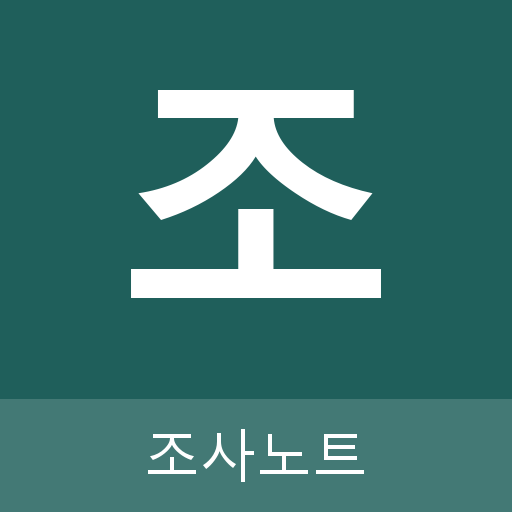
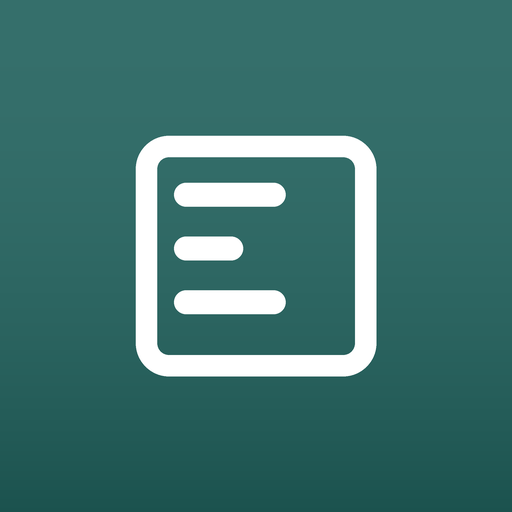
기일노트 9.10 — 전부 고딕, 어절 줄바꿈, 아이콘 교체
글꼴: 명조·외부 글꼴을 버리고 기기 고딕(Apple SD Gothic Neo→맑은 고딕→돋움).
  받아 오지 않으니 비행기 모드에서도 같은 모양이고 첫 화면이 빨라진다.
조판: word-break:keep-all 로 「제출하겠습니/다.」 같은 낱말 중간 잘림을 없애고,
  본문 줄길이를 42~44em 으로 묶고 줄간격을 1.68~1.78 로. 숫자는 tabular-nums.
머리줄: 사건이름·사건번호·기일 배지가 겹치던 것을 고치고 좁은 화면은 두 줄 고정.
아이콘: 「기」자 + 이름 띠를 버리고 글자 없는 선 아이콘 셋(달력·조서·말풍선)으로.
  홈 화면에는 앱 이름이 이미 아래에 뜨므로 아이콘이 이름을 또 말할 필요가 없다.

diff --git a/src/gijil-note.html b/src/gijil-note.html
@@ -1,7 +1,5 @@
 <title>기일노트</title>
-<link rel="preconnect" href="https://fonts.googleapis.com">
-<link rel="preconnect" href="https://fonts.gstatic.com" crossorigin>
-<link rel="stylesheet" href="https://fonts.googleapis.com/css2?family=Nanum+Myeongjo:wght@400;700;800&family=IBM+Plex+Sans+KR:wght@300;400;500;600;700&family=IBM+Plex+Mono:wght@400;500;600&display=swap">
+<!-- 글꼴은 기기에 있는 고딕을 쓴다 — 받아 오지 않으니 비행기 모드에서도 같은 모양이다 -->
 <script src="https://cdnjs.cloudflare.com/ajax/libs/jszip/3.10.1/jszip.min.js"></script>
 
 <style>
@@ -17,9 +15,10 @@
   --shadow:0 1px 2px rgba(22,32,43,.06), 0 6px 18px rgba(22,32,43,.06);
   --shadow-lg:0 8px 40px rgba(22,32,43,.18);
   --r:10px;
-  --serif:"Nanum Myeongjo",'Apple SD Gothic Neo',serif;
-  --sans:"IBM Plex Sans KR",'Apple SD Gothic Neo','Malgun Gothic',system-ui,sans-serif;
-  --mono:"IBM Plex Mono",ui-monospace,SFMono-Regular,Menlo,monospace;
+  /* 전부 고딕(돋움)으로 — 법정에서 멀리서도 획이 뭉개지지 않는다 */
+  --serif:'Apple SD Gothic Neo','Pretendard','맑은 고딕','Malgun Gothic','돋움',Dotum,system-ui,sans-serif;
+  --sans:'Apple SD Gothic Neo','Pretendard','맑은 고딕','Malgun Gothic','돋움',Dotum,system-ui,sans-serif;
+  --mono:ui-monospace,SFMono-Regular,Menlo,'D2Coding','맑은 고딕',monospace;
 }
 @media (prefers-color-scheme:dark){
   :root:not([data-theme="light"]){
@@ -53,8 +52,15 @@
 html,body{height:100%}
 body{
   margin:0; background:var(--paper); color:var(--ink);
-  font-family:var(--sans); font-size:15px; line-height:1.55;
+  font-family:var(--sans); font-size:15px; line-height:1.68;
   -webkit-text-size-adjust:100%; overscroll-behavior:none;
+  /* 한글은 어절 단위로 끊는다 — 「제출하겠습니/다.」처럼 낱말 가운데서 잘리지 않게 */
+  word-break:keep-all; overflow-wrap:anywhere;
+  letter-spacing:-.003em;
+}
+/* 숫자·날짜는 자리를 고정해 세로로 떨어지게 */
+[class*="ts"],.caseno,.pg input,.due,.frow .fd,.frow .fp,.tocrow .tp,.docitem .m,.hit .pg{
+  font-variant-numeric:tabular-nums;
 }
 button,input,textarea,select{font:inherit;color:inherit}
 button{cursor:pointer;background:none;border:none;padding:0}
@@ -72,14 +78,23 @@ button{cursor:pointer;background:none;border:none;padding:0}
 .brand{display:flex;align-items:baseline;gap:9px}
 .brand b{font-family:var(--serif);font-weight:800;font-size:18px;letter-spacing:-.01em}
 .brand span{font-size:10.5px;color:var(--mute-2);letter-spacing:.14em;text-transform:uppercase}
-.caseline{display:flex;align-items:baseline;gap:10px;min-width:0;flex:1}
-.caseline .nm{font-family:var(--serif);font-weight:700;font-size:17px;
-  white-space:nowrap;overflow:hidden;text-overflow:ellipsis}
-.caseno{font-family:var(--mono);font-size:12.5px;color:var(--mute);white-space:nowrap}
-.top .right{display:flex;align-items:center;gap:8px;margin-left:auto}
+/* 사건 이름·번호·기일 배지가 서로 겹치지 않게 — 좁으면 줄을 바꾼다 */
+.caseline{display:flex;align-items:center;gap:6px 10px;min-width:0;flex:1 1 260px;flex-wrap:wrap}
+.caseline .nm{font-family:var(--serif);font-weight:700;font-size:17px;letter-spacing:-.01em;
+  min-width:0;max-width:100%;white-space:nowrap;overflow:hidden;text-overflow:ellipsis}
+.caseno{font-family:var(--mono);font-size:12.5px;color:var(--mute);white-space:nowrap;flex:0 0 auto}
+.top .right{display:flex;align-items:center;gap:8px;margin-left:auto;flex-wrap:wrap;justify-content:flex-end}
+.top .right select{max-width:min(42vw,220px)}
+/* 좁은 화면(아이패드 세로)에서는 두 줄로 — 1줄 앱이름+단추, 2줄 사건이름+기일 */
+@media (max-width:900px){
+  .top{gap:8px 10px;padding:7px 12px}
+  .brand span{display:none}
+  .caseline{flex:1 1 100%;order:2}
+  .top .right{order:1;margin-left:auto}
+}
 
 .badge{display:inline-flex;align-items:center;gap:5px;padding:2px 9px;border-radius:100px;
-  font-size:11.5px;font-weight:600;border:1px solid transparent;white-space:nowrap}
+  font-size:11.5px;font-weight:600;border:1px solid transparent;white-space:nowrap;flex:0 0 auto}
 .badge.hearing{background:var(--court-soft);color:var(--court);border-color:color-mix(in srgb,var(--court) 22%,transparent)}
 .badge.demo{background:var(--warn-soft);color:var(--warn);border-color:color-mix(in srgb,var(--warn) 25%,transparent)}
 
@@ -139,7 +154,7 @@ button{cursor:pointer;background:none;border:none;padding:0}
 .tocrow:hover{background:var(--surface-2)}
 .tocrow.here{background:var(--pen-soft)}
 .tocrow .tp{font-family:var(--mono);font-size:11px;color:var(--mute-2);text-align:right}
-.tocrow .tt{font-size:13px;line-height:1.35;word-break:break-word}
+.tocrow .tt{font-size:13px;line-height:1.45;word-break:keep-all;overflow-wrap:anywhere}
 .tocrow.head .tt{font-weight:600}
 .tocrow.kid{padding-left:14px}
 .tocrow.kid .tt{font-size:12.5px;color:var(--ink-2)}
@@ -160,7 +175,7 @@ button{cursor:pointer;background:none;border:none;padding:0}
 .frow .fd{font-family:var(--mono);font-size:11px;color:var(--mute-2);white-space:nowrap;min-width:42px}
 .frow .fk{font-family:var(--mono);font-size:12px;font-weight:700;min-width:44px;white-space:nowrap}
 .frow.gap .fk{color:var(--seal)} .frow.eul .fk{color:var(--pen)}
-.frow .ft{font-size:13px;line-height:1.35;word-break:break-word}
+.frow .ft{font-size:13.5px;line-height:1.5;word-break:keep-all;overflow-wrap:anywhere}
 .frow.brief .ft{font-weight:600}
 .frow .ft small{display:block;font-family:var(--mono);font-size:10.5px;font-weight:400;color:var(--mute-2);margin-top:1px}
 .frow .fp{font-family:var(--mono);font-size:11px;color:var(--mute-2);white-space:nowrap}
@@ -197,11 +212,13 @@ button{cursor:pointer;background:none;border:none;padding:0}
 .pg .of{font-family:var(--mono);font-size:12px;color:var(--mute)}
 .zl{font-family:var(--mono);font-size:11px;color:var(--mute);min-width:36px;text-align:center}
 /* 요약 */
-.sum{background:var(--surface);border:1px solid var(--line);border-radius:var(--r);padding:18px 22px;line-height:1.7;font-size:14.5px}
-.sum h1{font-family:var(--serif);font-size:20px;margin:0 0 6px;line-height:1.35}
-.sum h2{font-family:var(--serif);font-size:16px;margin:22px 0 8px;padding-bottom:5px;border-bottom:1px solid var(--line-2)}
-.sum h3{font-size:14px;margin:14px 0 4px;color:var(--ink-2)}
-.sum p{margin:6px 0}
+.sum{background:var(--surface);border:1px solid var(--line);border-radius:var(--r);padding:20px 24px;line-height:1.78;font-size:15px}
+.sum h1{font-family:var(--serif);font-size:20px;font-weight:700;margin:0 0 8px;line-height:1.4;text-wrap:balance}
+.sum h2{font-family:var(--serif);font-size:16.5px;font-weight:700;margin:24px 0 9px;padding-bottom:5px;border-bottom:1px solid var(--line-2);text-wrap:balance}
+.sum h3{font-size:14.5px;font-weight:700;margin:16px 0 4px;color:var(--ink-2)}
+/* 글줄은 한글 42자 안쪽으로 — 넓은 화면에서 끝까지 늘어나면 읽기 힘들다 */
+.sum p,.sum li,.sum blockquote{max-width:44em;text-wrap:pretty}
+.sum p{margin:8px 0}
 .sum ul,.sum ol{margin:4px 0 8px;padding-left:22px}
 .sum li{margin:3px 0}
 .sum blockquote{margin:8px 0;padding:8px 14px;border-left:3px solid var(--seal);background:var(--seal-soft);border-radius:0 6px 6px 0}
@@ -241,12 +258,14 @@ button{cursor:pointer;background:none;border:none;padding:0}
 /* 노트 */
 .noteswrap{flex:1;display:flex;flex-direction:column;min-height:0;min-width:0}
 .notescroll{flex:1;overflow-y:auto;min-height:0;padding:14px 0 8px;-webkit-overflow-scrolling:touch}
-.line{display:grid;grid-template-columns:52px 62px 1fr auto;gap:11px;align-items:start;
-  padding:5px 16px;border-left:2px solid transparent}
+.line{display:grid;grid-template-columns:48px 60px minmax(0,1fr) auto;gap:12px;align-items:start;
+  padding:7px 16px;border-left:2px solid transparent}
 .line:hover{background:var(--surface)}
-.line .ts{font-family:var(--mono);font-size:11px;color:var(--mute-2);padding-top:3px}
-.line .who{font-size:11.5px;font-weight:600;padding:2px 7px;border-radius:5px;text-align:center;white-space:nowrap}
-.line .tx{font-size:14.5px;line-height:1.6;white-space:pre-wrap;word-break:break-word;padding-top:1px}
+.line .ts{font-family:var(--mono);font-size:11px;color:var(--mute-2);padding-top:4px;text-align:right}
+.line .who{font-size:11.5px;font-weight:600;padding:2px 7px;border-radius:5px;text-align:center;white-space:nowrap;margin-top:1px}
+/* 한 줄이 너무 길면 눈이 되돌아오지 못한다 — 한글 40자쯤에서 끊는다 */
+.line .tx{font-size:15px;line-height:1.72;white-space:pre-wrap;word-break:keep-all;overflow-wrap:anywhere;
+  padding-top:1px;max-width:42em;text-wrap:pretty}
 .line .acts{display:flex;gap:3px;opacity:0;transition:opacity .12s}
 .line:hover .acts,.line:focus-within .acts{opacity:1}
 @media (hover:none){.line .acts{opacity:1}}
@@ -349,7 +368,7 @@ button{cursor:pointer;background:none;border:none;padding:0}
 
 <div class="app">
   <header class="top">
-    <div class="brand"><b>기일노트</b><span>Hearing Desk · 9.8d</span></div>
+    <div class="brand"><b>기일노트</b><span>Hearing Desk · 9.10</span></div>
     <div class="caseline">
       <span class="nm" id="caseName">사건을 불러오세요</span>
       <span class="caseno" id="caseNo"></span>

diff --git a/docs/gijil/index.html b/docs/gijil/index.html
@@ -50,9 +50,7 @@
 })();
 </script>
 </head><body>
-<link rel="preconnect" href="https://fonts.googleapis.com">
-<link rel="preconnect" href="https://fonts.gstatic.com" crossorigin>
-<link rel="stylesheet" href="https://fonts.googleapis.com/css2?family=Nanum+Myeongjo:wght@400;700;800&family=IBM+Plex+Sans+KR:wght@300;400;500;600;700&family=IBM+Plex+Mono:wght@400;500;600&display=swap">
+<!-- 글꼴은 기기에 있는 고딕을 쓴다 — 받아 오지 않으니 비행기 모드에서도 같은 모양이다 -->
 <script src="../vendor/jszip.min.js"></script>
 
 <style>
@@ -68,9 +66,10 @@
   --shadow:0 1px 2px rgba(22,32,43,.06), 0 6px 18px rgba(22,32,43,.06);
   --shadow-lg:0 8px 40px rgba(22,32,43,.18);
   --r:10px;
-  --serif:"Nanum Myeongjo",'Apple SD Gothic Neo',serif;
-  --sans:"IBM Plex Sans KR",'Apple SD Gothic Neo','Malgun Gothic',system-ui,sans-serif;
-  --mono:"IBM Plex Mono",ui-monospace,SFMono-Regular,Menlo,monospace;
+  /* 전부 고딕(돋움)으로 — 법정에서 멀리서도 획이 뭉개지지 않는다 */
+  --serif:'Apple SD Gothic Neo','Pretendard','맑은 고딕','Malgun Gothic','돋움',Dotum,system-ui,sans-serif;
+  --sans:'Apple SD Gothic Neo','Pretendard','맑은 고딕','Malgun Gothic','돋움',Dotum,system-ui,sans-serif;
+  --mono:ui-monospace,SFMono-Regular,Menlo,'D2Coding','맑은 고딕',monospace;
 }
 @media (prefers-color-scheme:dark){
   :root:not([data-theme="light"]){
@@ -104,8 +103,15 @@
 html,body{height:100%}
 body{
   margin:0; background:var(--paper); color:var(--ink);
-  font-family:var(--sans); font-size:15px; line-height:1.55;
+  font-family:var(--sans); font-size:15px; line-height:1.68;
   -webkit-text-size-adjust:100%; overscroll-behavior:none;
+  /* 한글은 어절 단위로 끊는다 — 「제출하겠습니/다.」처럼 낱말 가운데서 잘리지 않게 */
+  word-break:keep-all; overflow-wrap:anywhere;
+  letter-spacing:-.003em;
+}
+/* 숫자·날짜는 자리를 고정해 세로로 떨어지게 */
+[class*="ts"],.caseno,.pg input,.due,.frow .fd,.frow .fp,.tocrow .tp,.docitem .m,.hit .pg{
+  font-variant-numeric:tabular-nums;
 }
 button,input,textarea,select{font:inherit;color:inherit}
 button{cursor:pointer;background:none;border:none;padding:0}
@@ -123,14 +129,23 @@ button{cursor:pointer;background:none;border:none;padding:0}
 .brand{display:flex;align-items:baseline;gap:9px}
 .brand b{font-family:var(--serif);font-weight:800;font-size:18px;letter-spacing:-.01em}
 .brand span{font-size:10.5px;color:var(--mute-2);letter-spacing:.14em;text-transform:uppercase}
-.caseline{display:flex;align-items:baseline;gap:10px;min-width:0;flex:1}
-.caseline .nm{font-family:var(--serif);font-weight:700;font-size:17px;
-  white-space:nowrap;overflow:hidden;text-overflow:ellipsis}
-.caseno{font-family:var(--mono);font-size:12.5px;color:var(--mute);white-space:nowrap}
-.top .right{display:flex;align-items:center;gap:8px;margin-left:auto}
+/* 사건 이름·번호·기일 배지가 서로 겹치지 않게 — 좁으면 줄을 바꾼다 */
+.caseline{display:flex;align-items:center;gap:6px 10px;min-width:0;flex:1 1 260px;flex-wrap:wrap}
+.caseline .nm{font-family:var(--serif);font-weight:700;font-size:17px;letter-spacing:-.01em;
+  min-width:0;max-width:100%;white-space:nowrap;overflow:hidden;text-overflow:ellipsis}
+.caseno{font-family:var(--mono);font-size:12.5px;color:var(--mute);white-space:nowrap;flex:0 0 auto}
+.top .right{display:flex;align-items:center;gap:8px;margin-left:auto;flex-wrap:wrap;justify-content:flex-end}
+.top .right select{max-width:min(42vw,220px)}
+/* 좁은 화면(아이패드 세로)에서는 두 줄로 — 1줄 앱이름+단추, 2줄 사건이름+기일 */
+@media (max-width:900px){
+  .top{gap:8px 10px;padding:7px 12px}
+  .brand span{display:none}
+  .caseline{flex:1 1 100%;order:2}
+  .top .right{order:1;margin-left:auto}
+}
 
 .badge{display:inline-flex;align-items:center;gap:5px;padding:2px 9px;border-radius:100px;
-  font-size:11.5px;font-weight:600;border:1px solid transparent;white-space:nowrap}
+  font-size:11.5px;font-weight:600;border:1px solid transparent;white-space:nowrap;flex:0 0 auto}
 .badge.hearing{background:var(--court-soft);color:var(--court);border-color:color-mix(in srgb,var(--court) 22%,transparent)}
 .badge.demo{background:var(--warn-soft);color:var(--warn);border-color:color-mix(in srgb,var(--warn) 25%,transparent)}
 
@@ -190,7 +205,7 @@ button{cursor:pointer;background:none;border:none;padding:0}
 .tocrow:hover{background:var(--surface-2)}
 .tocrow.here{background:var(--pen-soft)}
 .tocrow .tp{font-family:var(--mono);font-size:11px;color:var(--mute-2);text-align:right}
-.tocrow .tt{font-size:13px;line-height:1.35;word-break:break-word}
+.tocrow .tt{font-size:13px;line-height:1.45;word-break:keep-all;overflow-wrap:anywhere}
 .tocrow.head .tt{font-weight:600}
 .tocrow.kid{padding-left:14px}
 .tocrow.kid .tt{font-size:12.5px;color:var(--ink-2)}
@@ -211,7 +226,7 @@ button{cursor:pointer;background:none;border:none;padding:0}
 .frow .fd{font-family:var(--mono);font-size:11px;color:var(--mute-2);white-space:nowrap;min-width:42px}
 .frow .fk{font-family:var(--mono);font-size:12px;font-weight:700;min-width:44px;white-space:nowrap}
 .frow.gap .fk{color:var(--seal)} .frow.eul .fk{color:var(--pen)}
-.frow .ft{font-size:13px;line-height:1.35;word-break:break-word}
+.frow .ft{font-size:13.5px;line-height:1.5;word-break:keep-all;overflow-wrap:anywhere}
 .frow.brief .ft{font-weight:600}
 .frow .ft small{display:block;font-family:var(--mono);font-size:10.5px;font-weight:400;color:var(--mute-2);margin-top:1px}
 .frow .fp{font-family:var(--mono);font-size:11px;color:var(--mute-2);white-space:nowrap}
@@ -248,11 +263,13 @@ button{cursor:pointer;background:none;border:none;padding:0}
 .pg .of{font-family:var(--mono);font-size:12px;color:var(--mute)}
 .zl{font-family:var(--mono);font-size:11px;color:var(--mute);min-width:36px;text-align:center}
 /* 요약 */
-.sum{background:var(--surface);border:1px solid var(--line);border-radius:var(--r);padding:18px 22px;line-height:1.7;font-size:14.5px}
-.sum h1{font-family:var(--serif);font-size:20px;margin:0 0 6px;line-height:1.35}
-.sum h2{font-family:var(--serif);font-size:16px;margin:22px 0 8px;padding-bottom:5px;border-bottom:1px solid var(--line-2)}
-.sum h3{font-size:14px;margin:14px 0 4px;color:var(--ink-2)}
-.sum p{margin:6px 0}
+.sum{background:var(--surface);border:1px solid var(--line);border-radius:var(--r);padding:20px 24px;line-height:1.78;font-size:15px}
+.sum h1{font-family:var(--serif);font-size:20px;font-weight:700;margin:0 0 8px;line-height:1.4;text-wrap:balance}
+.sum h2{font-family:var(--serif);font-size:16.5px;font-weight:700;margin:24px 0 9px;padding-bottom:5px;border-bottom:1px solid var(--line-2);text-wrap:balance}
+.sum h3{font-size:14.5px;font-weight:700;margin:16px 0 4px;color:var(--ink-2)}
+/* 글줄은 한글 42자 안쪽으로 — 넓은 화면에서 끝까지 늘어나면 읽기 힘들다 */
+.sum p,.sum li,.sum blockquote{max-width:44em;text-wrap:pretty}
+.sum p{margin:8px 0}
 .sum ul,.sum ol{margin:4px 0 8px;padding-left:22px}
 .sum li{margin:3px 0}
 .sum blockquote{margin:8px 0;padding:8px 14px;border-left:3px solid var(--seal);background:var(--seal-soft);border-radius:0 6px 6px 0}
@@ -292,12 +309,14 @@ button{cursor:pointer;background:none;border:none;padding:0}
 /* 노트 */
 .noteswrap{flex:1;display:flex;flex-direction:column;min-height:0;min-width:0}
 .notescroll{flex:1;overflow-y:auto;min-height:0;padding:14px 0 8px;-webkit-overflow-scrolling:touch}
-.line{display:grid;grid-template-columns:52px 62px 1fr auto;gap:11px;align-items:start;
-  padding:5px 16px;border-left:2px solid transparent}
+.line{display:grid;grid-template-columns:48px 60px minmax(0,1fr) auto;gap:12px;align-items:start;
+  padding:7px 16px;border-left:2px solid transparent}
 .line:hover{background:var(--surface)}
-.line .ts{font-family:var(--mono);font-size:11px;color:var(--mute-2);padding-top:3px}
-.line .who{font-size:11.5px;font-weight:600;padding:2px 7px;border-radius:5px;text-align:center;white-space:nowrap}
-.line .tx{font-size:14.5px;line-height:1.6;white-space:pre-wrap;word-break:break-word;padding-top:1px}
+.line .ts{font-family:var(--mono);font-size:11px;color:var(--mute-2);padding-top:4px;text-align:right}
+.line .who{font-size:11.5px;font-weight:600;padding:2px 7px;border-radius:5px;text-align:center;white-space:nowrap;margin-top:1px}
+/* 한 줄이 너무 길면 눈이 되돌아오지 못한다 — 한글 40자쯤에서 끊는다 */
+.line .tx{font-size:15px;line-height:1.72;white-space:pre-wrap;word-break:keep-all;overflow-wrap:anywhere;
+  padding-top:1px;max-width:42em;text-wrap:pretty}
 .line .acts{display:flex;gap:3px;opacity:0;transition:opacity .12s}
 .line:hover .acts,.line:focus-within .acts{opacity:1}
 @media (hover:none){.line .acts{opacity:1}}
@@ -400,7 +419,7 @@ button{cursor:pointer;background:none;border:none;padding:0}
 
 <div class="app">
   <header class="top">
-    <div class="brand"><b>기일노트</b><span>Hearing Desk · 9.8d</span></div>
+    <div class="brand"><b>기일노트</b><span>Hearing Desk · 9.10</span></div>
     <div class="caseline">
       <span class="nm" id="caseName">사건을 불러오세요</span>
       <span class="caseno" id="caseNo"></span>

diff --git a/docs/sw.js b/docs/sw.js
@@ -1,5 +1,5 @@
 /* 노트앱 서비스워커 — 앱 껍데기를 통째로 캐시한다. 판이 바뀌면 V 가 바뀌어 옛 캐시는 지운다 */
-const V="notedesk-95410a7d3a";
+const V="notedesk-df2677d936";
 const SHELL=["./", "./index.html", "./vendor/jszip.min.js", "./sangdam/icon-180.png", "./sangdam/icon-192.png", "./gijil/", "./gijil/index.html", "./gijil/manifest.webmanifest", "./gijil/icon-180.png", "./gijil/icon-192.png", "./gijil/icon-512.png", "./josa/", "./josa/index.html", "./josa/manifest.webmanifest", "./josa/icon-180.png", "./josa/icon-192.png", "./josa/icon-512.png", "./sangdam/", "./sangdam/index.html", "./sangdam/manifest.webmanifest", "./sangdam/icon-512.png"];
 self.addEventListener("install",e=>{
   e.waitUntil(caches.open(V).then(c=>c.addAll(SHELL.map(u=>new Request(u,{cache:"reload"})))).then(()=>self.skipWaiting()));

diff --git a/docs/index.html b/docs/index.html
@@ -67,7 +67,7 @@ h1{font-size:22px;margin:8px 0 2px} p.sub{margin:0 0 22px;color:#6E6468;font-siz
   
   <a class="card" href="./gijil/" style="--c:#2C4E7A">
     <img src="./gijil/icon-192.png" alt="" width="64" height="64">
-    <div><b>기일노트</b><span>법정 — 제출 기록 · 기일 노트 · 쟁점 · 숙제</span><i>9.8d</i></div>
+    <div><b>기일노트</b><span>법정 — 제출 기록 · 기일 노트 · 쟁점 · 숙제</span><i>9.10</i></div>
   </a>
   <a class="card" href="./josa/" style="--c:#1F5F5B">
     <img src="./josa/icon-192.png" alt="" width="64" height="64">

diff --git a/빌드.py b/빌드.py
@@ -141,22 +141,69 @@ def build_app(a):
     return stamp_of(s)
 
 def make_icons(out, a):
-    from PIL import Image, ImageDraw, ImageFont
+    """글자 없는 선 아이콘 — 홈 화면에는 앱 이름이 이미 아래에 뜨므로 아이콘이 이름을 또 말할 필요가 없다.
+       4배로 그린 뒤 줄여 획을 매끄럽게 한다."""
+    from PIL import Image, ImageDraw
     for size in (180, 192, 512):
-        im = Image.new("RGBA", (size, size), a["color"])
+        S = size * 4
+        im = Image.new("RGB", (S, S), a["color"])
         d = ImageDraw.Draw(im)
-        # 살짝 밝은 띠 — 셋을 나란히 두었을 때 구분되게
-        d.rectangle([0, int(size * .78), size, size], fill=_mix(a["color"], "#FFFFFF", .16))
-        font = ImageFont.truetype(r"C:\Windows\Fonts\malgunbd.ttf", int(size * .56))
-        bb = d.textbbox((0, 0), a["ch"], font=font)
-        w, h = bb[2] - bb[0], bb[3] - bb[1]
-        d.text(((size - w) / 2 - bb[0], (size * .78 - h) / 2 - bb[1]), a["ch"], font=font, fill="#FFFFFF")
-        small = ImageFont.truetype(r"C:\Windows\Fonts\malgun.ttf", int(size * .11))
-        lb = a["name"]
-        bb = d.textbbox((0, 0), lb, font=small)
-        d.text(((size - (bb[2] - bb[0])) / 2 - bb[0], size * .78 + (size * .22 - (bb[3] - bb[1])) / 2 - bb[1]), lb, font=small, fill="#FFFFFF")
-        buf = io.BytesIO(); im.convert("RGB").save(buf, format="PNG", optimize=True)
+        # 위에서 아래로 아주 옅은 그늘 — 평면보다 깊어 보인다
+        top, bot = _mix(a["color"], "#FFFFFF", .10), _mix(a["color"], "#000000", .14)
+        for y in range(S):
+            t = y / S
+            d.line([(0, y), (S, y)], fill=_lerp(top, bot, t * t))
+        MARK[a["dir"]](d, S, "#FFFFFF")
+        im = im.resize((size, size), Image.LANCZOS)
+        buf = io.BytesIO(); im.save(buf, format="PNG", optimize=True)
         write(out / f"icon-{size}.png", buf.getvalue())
+
+
+def _rr(d, box, r, w, col):
+    d.rounded_rectangle(box, radius=r, outline=col, width=w)
+
+
+def _mark_gijil(d, S, col):
+    """기일 = 날짜. 달력 — 위 고리 둘, 머리띠, 그날 한 칸."""
+    w = int(S * .042); r = int(S * .065)
+    x0, x1 = S * .265, S * .735
+    y0, y1 = S * .305, S * .735
+    _rr(d, [x0, y0, x1, y1], r, w, col)
+    d.rectangle([x0 + w, y0 + w, x1 - w, y0 + S * .085], fill=col)          # 머리띠
+    for cx in (S * .385, S * .615):                                          # 고리
+        d.rounded_rectangle([cx - w * .8, S * .235, cx + w * .8, y0 + w * 1.2],
+                            radius=w, fill=col)
+    s = S * .072                                                             # 그날
+    cx, cy = S * .5, S * .575
+    d.rounded_rectangle([cx - s, cy - s, cx + s, cy + s], radius=int(w * .9), fill=col)
+
+
+def _mark_josa(d, S, col):
+    """조사 = 조서. 묻고 답한 줄 — 긴 줄 둘과 짧은 줄 하나."""
+    w = int(S * .042); r = int(S * .065)
+    x0, x1 = S * .265, S * .735
+    y0, y1 = S * .265, S * .735
+    _rr(d, [x0, y0, x1, y1], r, w, col)
+    for i, frac in enumerate((.68, .42, .68)):
+        y = y0 + S * (.115 + i * .105)
+        xs = x0 + S * .075
+        d.rounded_rectangle([xs, y - w * .55, xs + (x1 - x0 - S * .15) * frac, y + w * .55],
+                            radius=w, fill=col)
+
+
+def _mark_sangdam(d, S, col):
+    """상담 = 주고받는 말. 말풍선 둘을 어긋나게 둔다 — 겹치지 않아 작게 줄여도 둘로 보인다."""
+    w = int(S * .042); r = int(S * .07)
+    _rr(d, [S * .215, S * .250, S * .615, S * .505], r, w, col)              # 묻는 쪽
+    d.rounded_rectangle([S * .385, S * .545, S * .785, S * .800], radius=r, fill=col)  # 답하는 쪽
+
+
+MARK = {"gijil": _mark_gijil, "josa": _mark_josa, "sangdam": _mark_sangdam}
+
+
+def _lerp(c1, c2, t):
+    a = [int(c1[i:i + 2], 16) for i in (1, 3, 5)]; b = [int(c2[i:i + 2], 16) for i in (1, 3, 5)]
+    return tuple(round(a[i] + (b[i] - a[i]) * t) for i in range(3))
 
 def _mix(c1, c2, t):
     a = [int(c1[i:i + 2], 16) for i in (1, 3, 5)]; b = [int(c2[i:i + 2], 16) for i in (1, 3, 5)]
